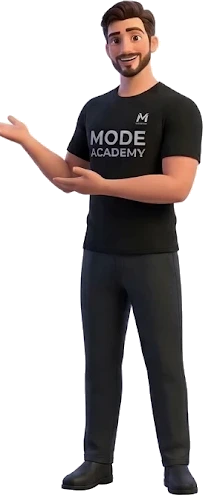
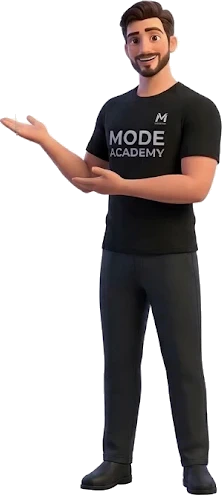
Presenting pose with the full hand

diff --git a/app/globals.css b/app/globals.css
@@ -371,9 +371,9 @@ dialog.viewer[open] { animation: viewer-in .45s var(--ease-out-expo); }
 .tone-sun { --tone: #ffd166; } .tone-ring { --tone: #2bb8ff; } .tone-green { --tone: #6ee7a8; } .tone-pink { --tone: #ff8fb1; }
 .tone-pink svg { fill: #0a1733; stroke-width: 0; }
 @keyframes g-sign { 0% { opacity: 0; transform: translateY(20px) scale(0.3) rotate(-20deg); } 18% { opacity: 1; transform: translateY(-4px) scale(1.1) rotate(6deg); } 28% { transform: none; } 80% { opacity: 1; transform: translateY(-6px); } 100% { opacity: 0; transform: translateY(-22px) scale(0.8); } }
-.guide__breathe { position: relative; display: block; aspect-ratio: 203 / 495; animation: guide-breathe 6s ease-in-out infinite; transform-origin: 64% 100%; transform-style: preserve-3d; }
+.guide__breathe { position: relative; display: block; aspect-ratio: 222 / 495; animation: guide-breathe 6s ease-in-out infinite; transform-origin: 67% 100%; transform-style: preserve-3d; }
 /* every pose stands on the same spot: his feet line up whichever pose is showing */
-.guide__pose { position: absolute; bottom: 0; left: 63.7%; height: 100%; transform: translateX(calc(var(--ax) * -100%)); opacity: 0; transition: opacity 0.16s ease-out; }
+.guide__pose { position: absolute; bottom: 0; left: 66.7%; height: 100%; transform: translateX(calc(var(--ax) * -100%)); opacity: 0; transition: opacity 0.16s ease-out; }
 .guide__pose.is-on { opacity: 1; animation: guide-turn 0.55s cubic-bezier(0.2, 0.8, 0.2, 1) both; }
 @keyframes guide-turn { from { transform: translateX(calc(var(--ax) * -100%)) rotateY(-55deg) scale(0.96); } to { transform: translateX(calc(var(--ax) * -100%)); } }
 .guide__pose img { height: 100%; }
@@ -408,7 +408,7 @@ dialog.viewer[open] { animation: viewer-in .45s var(--ease-out-expo); }
 .lang-switch button[aria-pressed="true"] { background: var(--color-ink); color: var(--color-night); }
 
 /* Hero host: big, in the empty right half of the first screen, pointing down to the work */
-.hero-host { position: absolute; right: clamp(40px, 9vw, 180px); bottom: 0; height: min(80svh, 780px); aspect-ratio: 203 / 495; z-index: 1; pointer-events: none; perspective: 1000px; }
+.hero-host { position: absolute; right: clamp(40px, 9vw, 180px); bottom: 0; height: min(80svh, 780px); aspect-ratio: 222 / 495; z-index: 1; pointer-events: none; perspective: 1000px; }
 .hero-host__light { position: absolute; left: -70%; right: -70%; top: 0; bottom: -8%; border-radius: 50%;
   background: radial-gradient(closest-side, rgb(43 184 255 / 0.2), rgb(31 92 220 / 0.08) 55%, transparent); }
 .hero-host__fig { position: absolute; inset: 0; display: block; transform-origin: 50% 100%; transform-style: preserve-3d;

diff --git a/components/home/Hero.tsx b/components/home/Hero.tsx
@@ -58,7 +58,7 @@ export default function Hero() {
         <div aria-hidden className="hero-host">
           <span className="hero-host__bubble">{t("Scroll down to see our work", "Aşağı kaydırın, işlerimizi görün")}</span>
           <span className="hero-host__fig">
-            <img src={asset("/intro/pose-5.webp")} alt="" width={203} height={495} draggable={false} />
+            <img src={asset("/intro/pose-5.webp")} alt="" width={222} height={495} draggable={false} />
           </span>
           <span className="hero-host__floor" />
         </div>

diff --git a/components/ui/Guide.tsx b/components/ui/Guide.tsx
@@ -25,7 +25,7 @@ const LINES: { anchor: string; say: string; sayTr: string }[] = [
  * `ax` is where his feet are across the picture, so the poses line up.
  */
 const POSES = [
-  { src: "/intro/pose-5.webp", w: 203, h: 495, ax: 0.636 },
+  { src: "/intro/pose-5.webp", w: 222, h: 495, ax: 0.667 },
   { src: "/intro/pose-2.webp", w: 183, h: 492, ax: 0.445 },
   { src: "/intro/pose-4.webp", w: 173, h: 490, ax: 0.5 },
 ];
